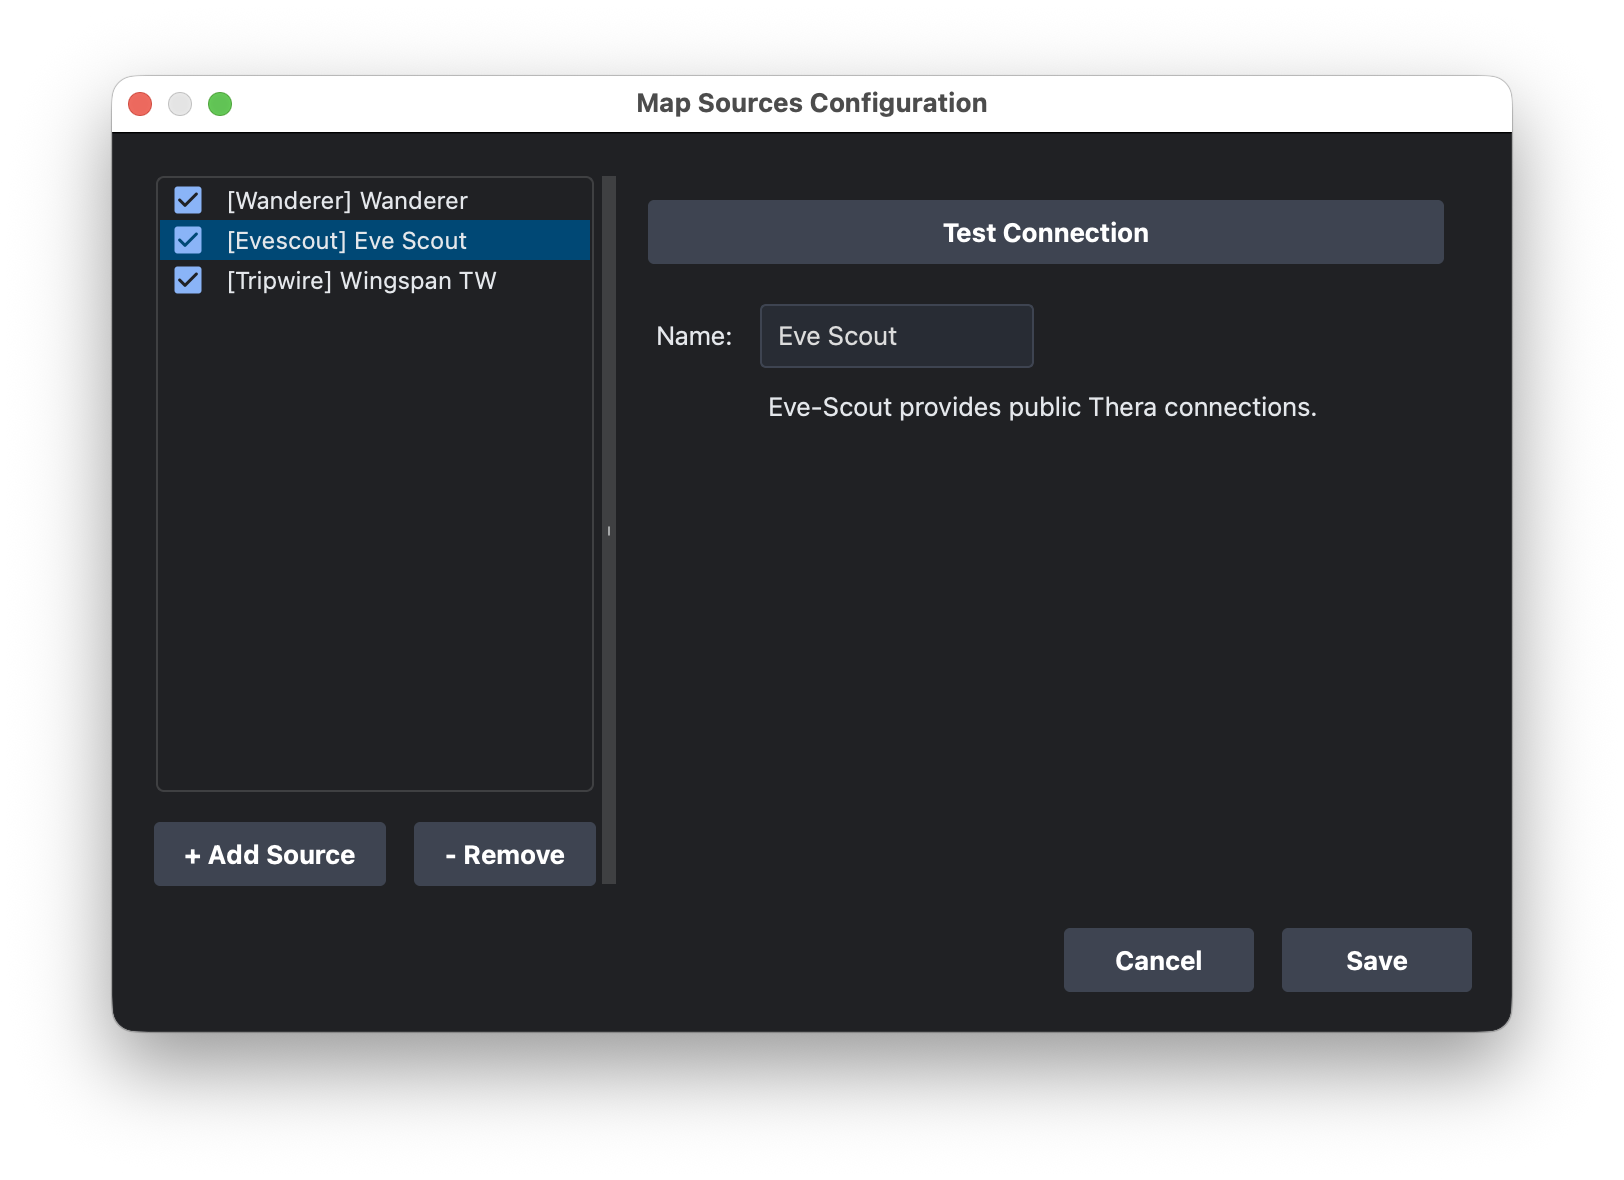
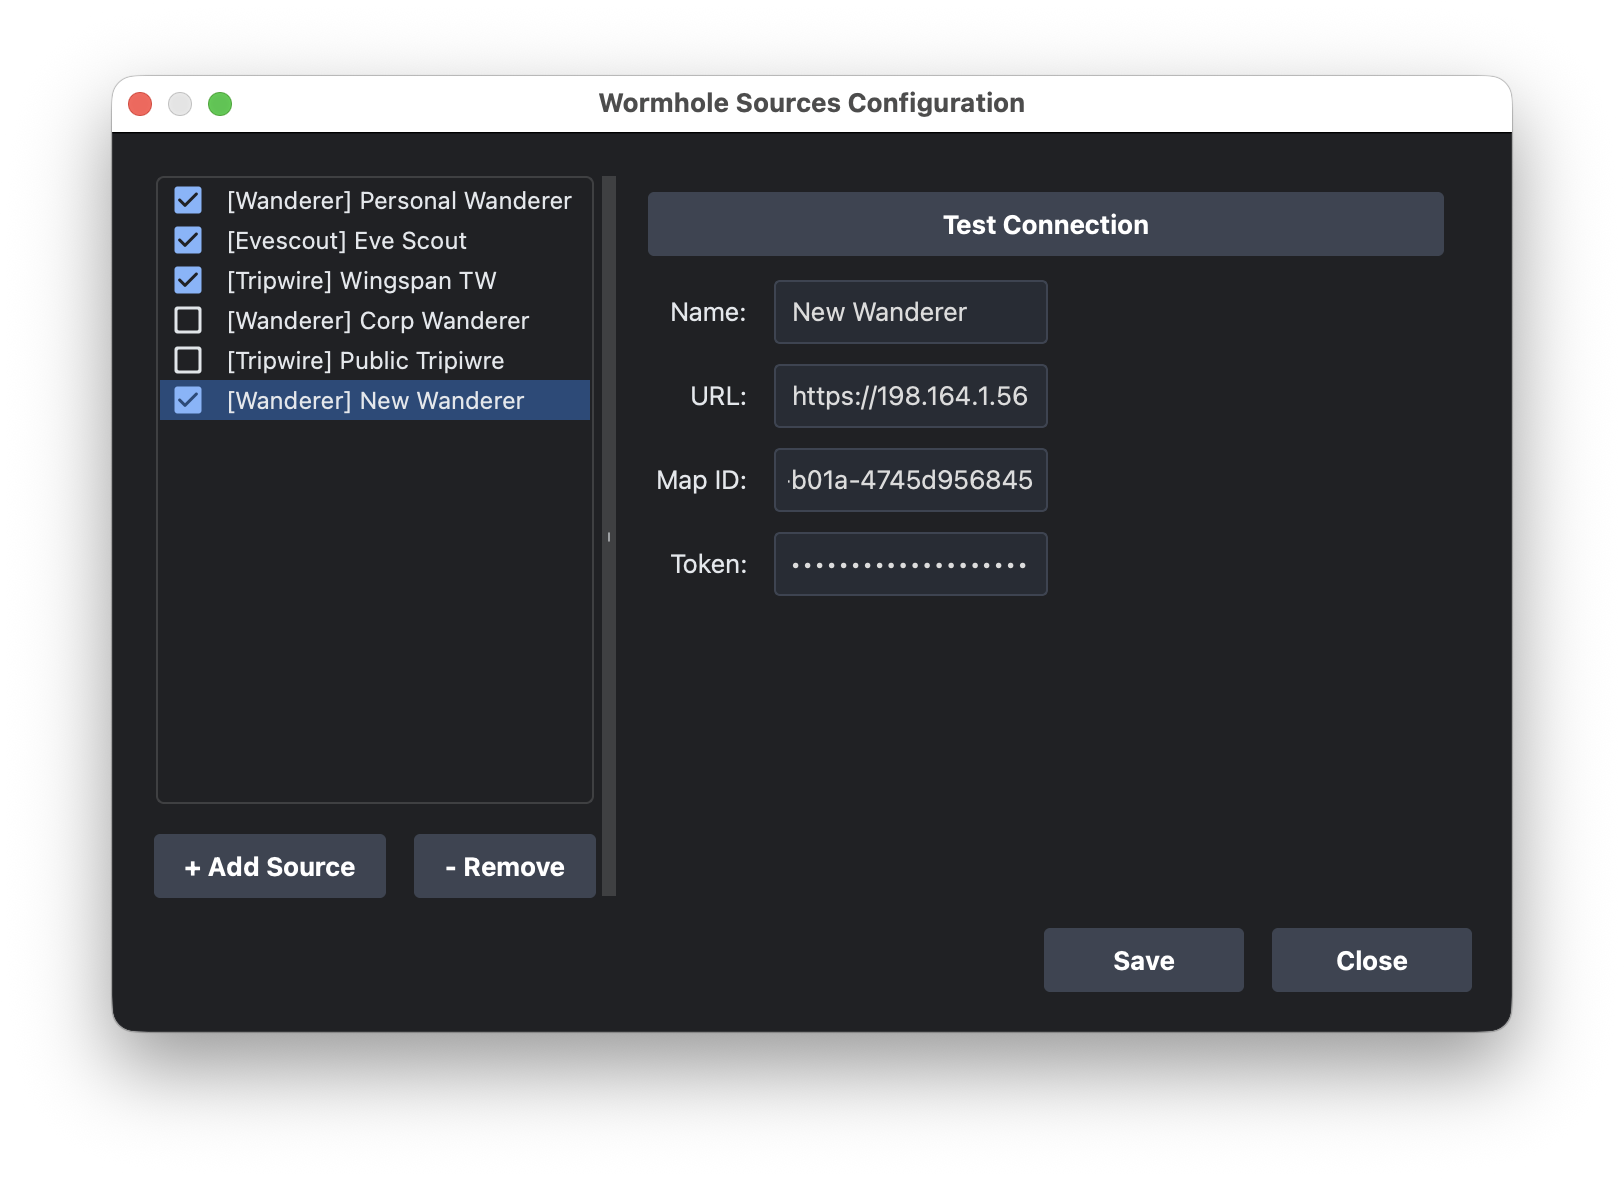
docs: Rewrite README and update screenshots
The previous README led with a disclaimer discouraging use and lacked
personality. Replaced with a full rewrite that properly documents the
app's features, explains how the routing engine and multi-source
aggregation work, and sets appropriate expectations around wormhole
reliability — all in a voice that reflects the EVE community.

Changes:
- Removed the opening "not ready for primetime" banner (moved to a
  more honest but less off-putting callout block)
- Added proper feature documentation: hybrid routing, multi-source
  aggregation, route filtering, SSO integration, fleet export
- Documented ESI scopes explicitly with a table explaining exactly what
  is and isn't requested
- Expanded "How It Works" section to explain the Connection Database,
  deduplication, conflict resolution, and freshness tracking
- Added acknowledgments with proper credits to farshield, secondfry,
  and mogglemoss/Cormorant Fell
- Updated screenshots in docs/ to reflect current UI

diff --git a/README.md b/README.md
@@ -1,123 +1,140 @@
-#### THIS IS A PERSONAL PROJECT, MAINLY TO INTEGRATE WITH WANDERER, IS CLEARLY NOT READY FOR PRIMETIME, AND LIKELY WILL NEVER BE! I highly encourage folks to continue with the excellent https://github.com/secondfry/shortcircuit
-
 # Short Circuit
 
 [![GitHub release (latest by date)](https://img.shields.io/github/v/release/mogglemoss/shortcircuit)](https://github.com/mogglemoss/shortcircuit/releases)
 [![Build Status](https://github.com/mogglemoss/shortcircuit/actions/workflows/build.yml/badge.svg)](https://github.com/mogglemoss/shortcircuit/actions/workflows/build.yml)
 
-![Short Circuit UI](docs/Daytripper.png) **Short Circuit** is an advanced, standalone routing and navigation tool for EVE Online. It calculates the absolute shortest path between solar systems by seamlessly blending standard Stargate routes with live wormhole connections pulled from your favorite 3rd-party mapping tools.
+> ⚠ This is a personal project. It is not ready for primetime and, if past performance is any indicator, it may never be. If you require something stable, maintained, and built by someone who knew what they were doing from the start, please see [secondfry's defacto version](https://github.com/secondfry/shortcircuit). That one has adults in charge. This one has me, [Cormorant Fell](https://evewho.com/character/93594488).
 
-Whether you're running logistics, hunting targets, or just daytripping in J-Space, Short Circuit takes the guesswork out of traversing New Eden.
+![Short Circuit UI](docs/Daytripper.png)
+
+**Short Circuit** is an advanced, standalone routing and navigation tool for EVE Online. It calculates the absolute shortest path between solar systems by seamlessly blending standard stargate routes with live wormhole connections pulled from your favorite third-party mapping tools.
+
+Whether you're running logistics, hunting targets, or daytripping through J-space with the quiet confidence of someone who has absolutely no idea what's on the other side of that wormhole, Short Circuit takes the guesswork out of traversing New Eden — and replaces it with a different, more interesting set of mistakes. Progress.
+
+---
 
 ## ✨ Features
 
-![Short Circuit UI](docs/Daytripperconfig.png)
-* **Intelligent Hybrid Routing**: Calculate optimized paths across High Sec, Low Sec, Null Sec, and Wormhole space in seconds.
-* **EVE SSO Integration**: Log in securely with your EVE Online account to automatically fetch your current in-game location and set route waypoints directly in the game client.
-* **Granular Route Filtering**:
-  * **Wormhole Restrictions**: Filter potential paths by ship size (e.g., Frigate, Cruiser), and choose to ignore End of Life (EOL) holes, critical mass holes, or wormholes older than a specified time limit.
-  * **Security Prioritization**: Fine-tune your route using custom sliders (1-100) to weight your preference for High Sec, Low Sec, Null Sec, or WH space.
-  * **Avoidance List**: Blacklist specific solar systems or entire regions to keep your route out of known gate camps and dangerous space.
-* **Fleet-Friendly Exporting**: 
-  * Copy your route in a simplified text format perfect for fleet chat (`Jita --> ... --> Iyen-Oursta [HVE-768] ~~> J153528`).
-  * Copy the full, detailed instruction table with a single click.
+![Short Circuit Config](docs/Daytripperconfig.png)
 
-## 📡 Enhanced Integrations (v2.1.8)
+**Intelligent Hybrid Routing** calculates optimized paths across High Sec, Low Sec, Null Sec, and Wormhole space in seconds. The routing engine builds a transient graph from resolved live data, computes the shortest path, and silently respects your avoidance lists and wormhole size restrictions without once asking for your reasons. It's doing an enormous amount of math. An acknowledgment would not go unappreciated.
 
-* **Multi-Source Aggregation**: Simultaneously connect to multiple mapping tools. Aggregate data from your corp's Tripwire, and your personal Wanderer map all at once.
-* **Multi-Account Support**: Add as many sources as you need, even from the same provider. You can now connect to multiple different Tripwire servers or Wanderer maps simultaneously.
-* **Intelligent Deduplication**: The new **Connection Database** automatically resolves conflicts between sources, prioritizing permanent gates over transient wormholes and favoring the freshest data based on update timestamps.
-* **Supported Platforms**: Full support for **Tripwire**, **Wanderer**, and **Eve-Scout** with per-source toggles and targeted refresh.
+**Multi-Source Aggregation** connects simultaneously to multiple mapping tools — your corp's Tripwire instance, your personal Wanderer map, Eve-Scout, and more, all at once. Multiple accounts from the same provider are fully supported, because sometimes you have trust issues and that's fine. All incoming data is funneled into a centralized **Connection Database** that handles deduplication, conflict resolution, and freshness tracking. When sources disagree on wormhole status — and they will disagree — it favors the most recently updated data. This is as close to wisdom as software gets.
 
-Short Circuit pulls live chain data directly from the most popular wormhole mapping tools in the EVE community:
+**Supported mapping platforms:**
 
-* **[Eve-Scout](https://eve-scout.com/)** (Automatic Thera & Turnur connections)
-* **[Tripwire](https://tripwire.eve-apps.com/)**
-* **[Wanderer](https://wanderer.space/)**
+![Short Circuit Sources](docs/Daytrippersources.png)
+- **[Eve-Scout](https://eve-scout.com/)** — Automatic Thera & Turnur connections, delivered silently and without ceremony
+- **[Tripwire](https://tripwire.eve-apps.com/)** — Full support with per-source toggles and targeted refresh
+- **[Wanderer](https://wanderer.space/)** — Full support with per-source toggles and targeted refresh
+
+**Granular Route Filtering** gives you fine-grained control over which paths Short Circuit will even consider dignifying with a response:
+
+- **Wormhole Restrictions** — Filter by ship size (Frigate, Cruiser, etc.), exclude End of Life holes, exclude critical mass holes, or ignore wormholes older than a specified time limit. For pilots who have learned, through costly experience, that not all holes are created equal.
+- **Security Prioritization** — Four sliders (1–100) let you express your nuanced personal feelings about High Sec, Low Sec, Null Sec, and WH space. Equal values disable the feature entirely. Set Null Sec to 100 and the router will heroically thread you through three consecutive wormholes before it will so much as glance at a null gate. The router has opinions. They are adjustable.
+- **Avoidance List** — Blacklist specific solar systems or entire regions. Short Circuit does not ask why. Short Circuit understands.
+
+**EVE SSO Integration** (optional) reads your current in-game location automatically and sets route waypoints directly in the client. The tool works perfectly without it. You'll simply be required to type your location manually, like some kind of animal.
+
+**Fleet-Friendly Exporting** copies your route as clean fleet-chat text (`Jita --> ... --> Iyen-Oursta [HVE-768] ~~> J153528`) or as a full detailed instruction table with jump instructions, signature IDs, and wormhole status — all with a single click. Efficient. Professional. Deeply unlikely to save you from a smartbomb.
+
+**Status Bar Integration** provides real-time feedback: quick source toggles, targeted per-source manual refresh, and relative "Last Updated" freshness timestamps for every active provider. Because stale wormhole data is not a bug. It is a complimentary lesson, delivered at market rates.
+
+---
+
+## ESI Scopes
+
+Short Circuit requests exactly two ESI scopes. Not three. Two.
+
+| Scope | Why |
+|---|---|
+| `esi-location.read_location.v1` | Reads your current system so you don't have to type it |
+| `esi-ui.write_waypoint.v1` | Sets your in-game destination automatically |
+
+No wallet. No mail. No corp APIs. No scanning your bookmarks, your contacts, your kill rights, or your browser history. It asks only for what it uses. We understand this is, in the current landscape, a remarkable restraint.
+
+---
 
 ## 🚀 Installation
 
-*(Note: If you provide pre-compiled binaries, you can download the latest version from the [Releases](https://github.com/mogglemoss/shortcircuit/releases) page.)*
+Pre-compiled binaries are available on the [Releases page](https://github.com/mogglemoss/shortcircuit/releases) for those who prefer their software pre-assembled.
 
-**Running from Source:**
-Make sure you have Python 3 installed, then clone the repository and install the dependencies:
-
+**Running from Source** — Python 3 required. A willingness to read error messages helps but is not strictly mandatory:
 ```bash
-git clone [https://github.com/mogglemoss/shortcircuit.git](https://github.com/mogglemoss/shortcircuit.git)
+git clone https://github.com/mogglemoss/shortcircuit.git
 cd shortcircuit
 python -m venv .venv
-source .venv/bin/activate  # On Windows use: .venv\Scripts\activate
+source .venv/bin/activate  # On Windows: .venv\Scripts\activate
 pip install -r requirements.txt
-python main.py  # Replace with your actual entry point script if different
+python main.py
 ```
 
-## ⚙ Quick Start Guide
-Connect your Sources: Click Wormhole Sources at the top right to configure and enable your preferred mappers (Tripwire, Pathfinder, Wanderer) and Eve-Scout.
+SDE database files are automatically checked and downloaded from [Fuzzwork](https://github.com/fuzzysteve) during the build process. Thank you, fuzzysteve (Steve Ronuken) — a true and tireless pillar of this community, who has quietly enabled more third-party tools than anyone will ever properly document. He deserves more credit than he gets, and he gets quite a lot.
 
-Log in with EvE: (Optional) Authenticate via EVE SSO to enable the "Get player location" and "Set destination" features.
+---
 
-Set your Route: Enter your Source and Destination systems in the Navigation panel.
+## ⚙ Quick Start
 
-Configure Restrictions: Adjust ship size limits, security sliders, and avoidance lists based on what you are flying.
+1. **Connect your sources** — Click *Wormhole Sources* in the top right to configure Tripwire, Wanderer, and Eve-Scout
+2. **Log in with EVE** *(optional)* — Authenticate via EVE SSO to enable auto-location and in-client waypoint setting
+3. **Set your route** — Enter source and destination systems in the Navigation panel
+4. **Configure restrictions** — Set ship size limits, adjust security sliders, and populate your avoidance list based on what you're flying and who is currently motivated to kill you specifically
+5. **Hit Find Path** — Jump instructions, signature IDs, and wormhole status appear in the Route Results table. What you do with this information is entirely your own affair.
 
-Find Path: Hit Find path to generate your route. Jump instructions, signature IDs, and wormhole status will be displayed clearly in the Route Results table.
+---
 
-## Releases
-Binaries (executables) can be downloaded from [here](https://github.com/mogglemoss/shortcircuit/releases).
+## How It Works
 
-## SDE update
-SDE database files are automatically checked and downloaded from Fuzzwork during the build process.
-Thank you, @fuzzysteve (Steve Ronuken).
+Short Circuit reconstructs its own version of the EVE solar map from the `mapSolarSystemJumps` table of the Static Data Export database — a painstaking process that the software completes in the background without complaint. This base map is then extended with live wormhole connections aggregated from all configured third-party sources.
 
-## About ESI
-Using ESI is optional, but it provides features like getting current player location or setting in-game destination automatically.
+All incoming data flows into the centralized **Connection Database**, which applies three ruthlessly pragmatic principles:
 
-Short Circuit uses implicit mode which only allows for a 20 minutes session, after that you have to relog. If you don't want to use the "implicit" mode, you will have to port back using your own keys feature.
+1. **Deduplication** — The same connection reported by multiple sources is counted once. Democracy has limits.
+2. **Conflict Resolution** — Permanent gates take priority over transient wormholes. The universe has rules, even if players don't.
+3. **Freshness Tracking** — When sources disagree on wormhole status, the most recently updated data wins. The past is unreliable. We've made our peace with that.
+
+The routing engine constructs a transient graph from this resolved data and computes the shortest path in accordance with your avoidance lists and size restrictions.
+
+**Security prioritization** assigns an "effort" weight (1–100) to each jump type: HS, LS, NS, and WH. Equal weights across all four disable the system entirely, treating a null sec gate and a high sec gate as morally equivalent, which they are not. Raise any value and the router will work increasingly hard to avoid that jump type — routing around null sec, for instance, until avoiding it would cost more jumps than it saves. Configure it to match your risk tolerance, your ship type, and the number of losses you've had this week.
+
+---
 
 ## Managing Map Sources
-Short Circuit v2.1.0 introduces a unified interface for managing multiple data providers simultaneously.
 
-### Map Sources Configuration
-Access the **Wormhole Sources** dialog to add, remove, and configure your accounts.
-*   **Unified Management**: Configure Tripwire, Pathfinder, Wanderer, and Eve-Scout in one place.
-*   **Connection Testing**: Verify your credentials and API tokens immediately with the "Test Connection" feature.
-*   **Legacy Migration**: Your existing Tripwire and Eve-Scout settings are automatically migrated to the new format on first launch.
+The **Wormhole Sources** dialog is the unified interface for all your data providers. Add, remove, and configure Tripwire, Wanderer, and Eve-Scout in one place. The built-in "Test Connection" feature verifies credentials immediately, so you can confirm a source is working before you trust your route to it. The status bar provides per-source freshness timestamps, quick enable/disable toggles, and targeted manual refresh for when a source requires gentle encouragement.
 
-### Status Bar Integration
-The status bar provides real-time feedback and quick controls:
-*   **Quick Toggles**: Enable or disable sources on the fly via the "Map Sources" menu.
-*   **Targeted Refresh**: Manually trigger a refresh for a specific source.
-*   **Freshness Indicators**: See relative "Last Updated" timestamps for every active provider.
+---
 
-## Security prioritization
-Security prioritization mechanism is defined by four values which represent a weight, or an effort:
+## A Note on Reliability
 
-* HS - the amount of effort it takes to jump a gate to high-sec.
-* LS - the amount of effort it takes to jump a gate to low-sec.
-* NS - the amount of effort it takes to jump a gate to null-sec.
-* WH - the amount of effort it takes to jump a wormhole to any system.
+Wormholes are fickle. There's a reason it's called Spooky Space. Routes expire. Intel goes stale. Connections collapse while you're still jumping through them, which is an experience that builds character whether you want it to or not.
 
-Values may range from 1 to 100 and if all values are equal (ex. all equal to 1), then this function is practically disabled.
+**Short Circuit finds the best path based on what is known right now.** It cannot predict the future. It cannot account for the K162 that opened thirty seconds ago. It absolutely cannot stop that cloaked Loki from decloaking directly on your face, and frankly, nothing can.
 
-In the above scenario the user specified that the effort is the same for taking gates to high-sec or low-sec and there's no need to prioritize one above the other. Compared to this, it's ten times more difficult to take gates to null-sec and three times more difficult to take any wormholes compared to high-sec/low-sec gates.
+Fly accordingly.
 
-For example, this may be useful when trying to avoid null-sec systems if possible, unless it shortens the path considerably, and when wormholes aren't bookmarked.
-
-## How it works
-Short Circuit reconstructs its own version of the Eve solar map from the 'mapSolarSystemJumps' table of the Static Data Export database. This base map is then extended by aggregating connections from multiple 3rd party mapping tools.
-
-All incoming data is funneled into a centralized **Connection Database** which handles:
-1.  **Deduplication**: Identifying the same connection reported by different sources.
-2.  **Conflict Resolution**: Prioritizing permanent gates over transient wormholes.
-3.  **Freshness Tracking**: Using the most recently updated data when sources disagree on wormhole status.
-
-The routing engine then builds a transient graph from this resolved data to compute the shortest path, respecting user-defined avoidance lists and wormhole size restrictions.
+---
 
 ## 🙌 Credits & Acknowledgments
-A massive shout-out to the original creators and maintainers who laid the groundwork for this tool!
 
-- farshield - For designing and building the original version of Short Circuit
-- secondfry - For their long-term maintenance of the secondfry/shortcircuit fork, which is keeping the application alive and functional for the EVE community through years of API changes.
+- **[farshield](https://github.com/farshield/shortcircuit)** — Built the original Short Circuit. An absolute legend who started all of this.
+- **[secondfry](https://github.com/secondfry/shortcircuit)** — Kept the lights on through years of ESI changes and CCP's creative approach to API stability. Also a legend. Arguably more of a legend, given the sustained and thankless nature of the effort.
+- **[mogglemoss](https://github.com/mogglemoss/shortcircuit)** / [Cormorant Fell](https://evewho.com/character/93594488) — Added multi-source aggregation, Wanderer support, made it prettier, introduced an undisclosed number of new bugs, and wrote this README. Proud alumni of [WiNGSPAN Delivery Services](https://www.torpedodelivery.com/), where the torpedoes were always free and the targets were always surprised.
+
+---
 
 ## License
-MIT
+
+MIT. Do what you want with it. Fork it, improve it, quietly fix my bugs and pretend they were always yours. Just don't blame me when you jump a crit hole and lose your billion-ISK pod.
+
+That one is entirely on you. We both know it. 
+
+---
+
+Fly weird,
+
+— [Cormorant Fell](https://evewho.com/character/93594488), probably
+
+---
+
+*This tool uses the [EVE Online ESI API](https://esi.evetech.net). It is not affiliated with or endorsed by CCP Games. EVE Online, EVE, the EVE logo, and all related art, images, and materials are the intellectual property of CCP hf., used with permission under the [CCP Developer License Agreement](https://developers.eveonline.com/resource/license-agreement).*
